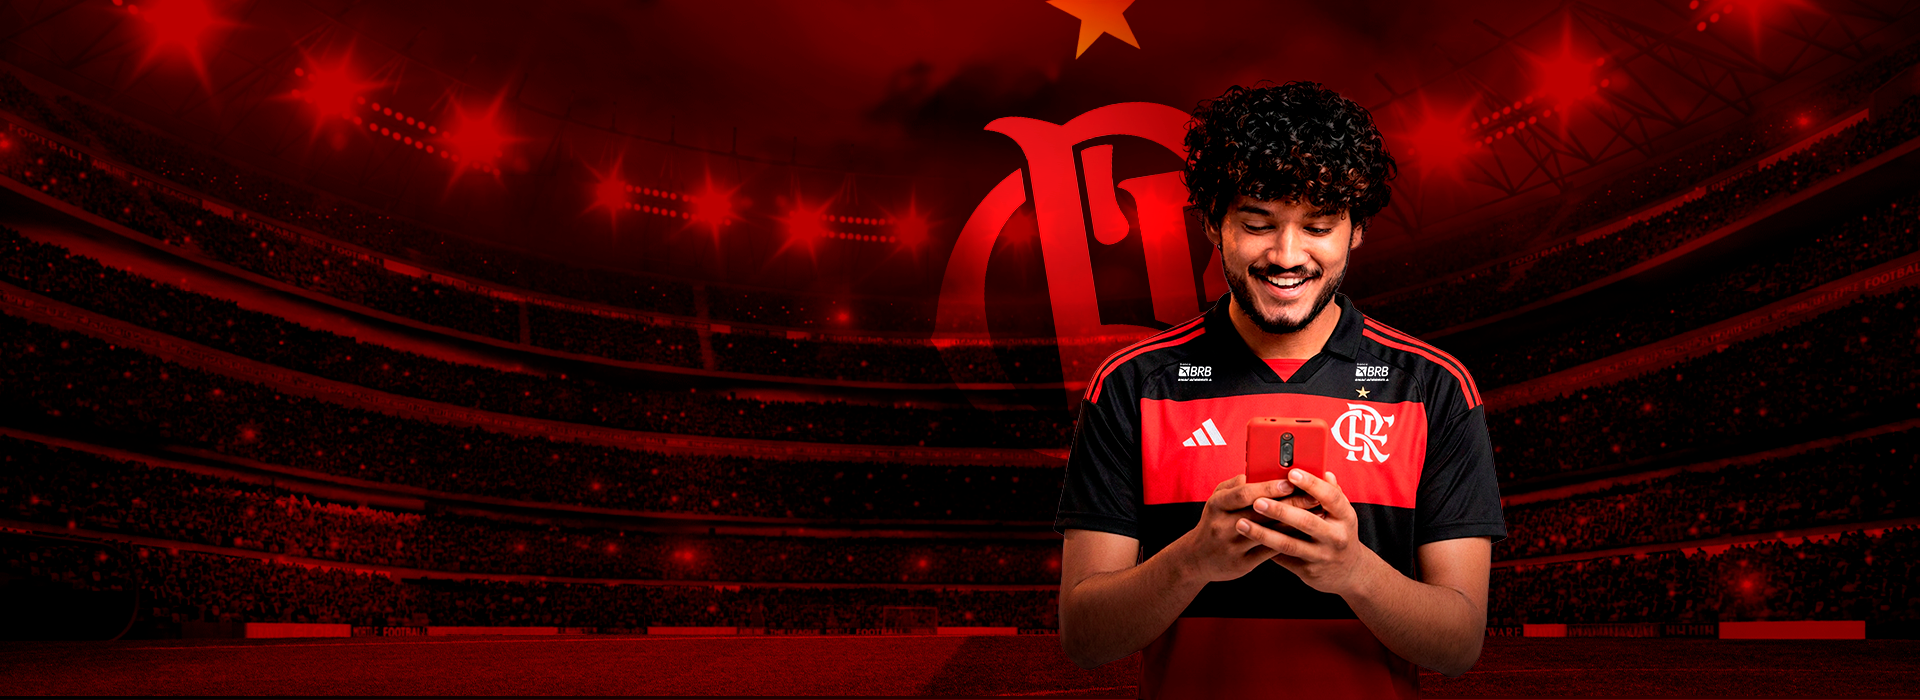
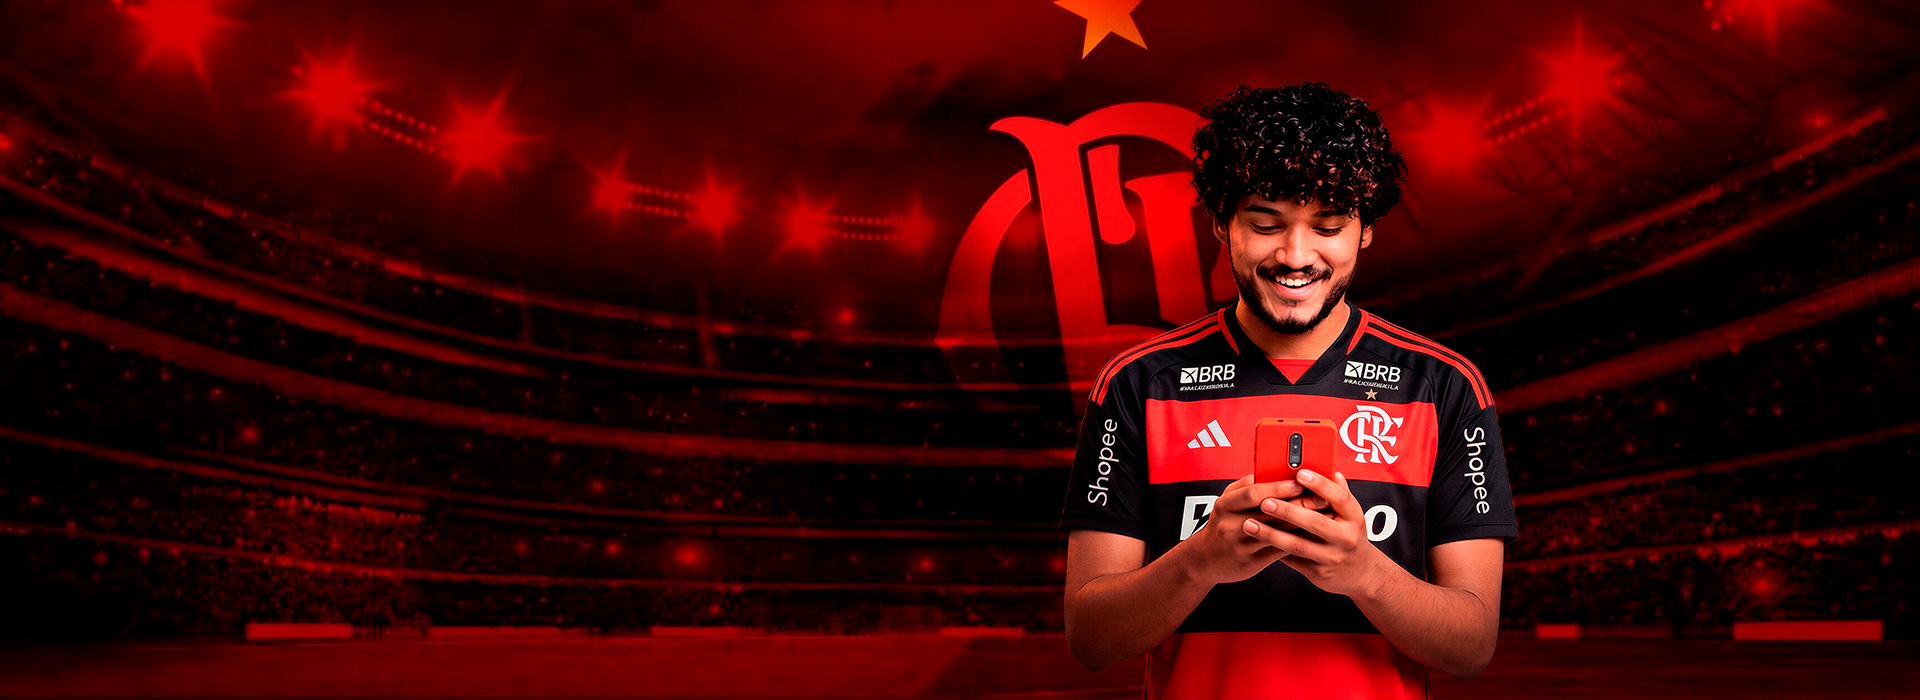
Adiciona botão Simular Benefícios ao menu e corrige inclinação do hero
- Troca a wordmark "FLA PREV" no menu e no hero pela imagem oficial
- Barra do menu fixo fica transparente no topo e preta ao rolar a página
- Remove o skewX(-10deg) permanente da animação de entrada do hero, que
  deixava logo/texto/botões desalinhados em diagonal
- Atualiza fotos de fundo e mulher

diff --git a/index.html b/index.html
@@ -44,11 +44,11 @@
 <body class="antialiased text-white selection:bg-red-600 selection:text-white">
 
 <!-- ============ NAVBAR ============ -->
-<nav class="fixed top-0 w-full z-50 pointer-events-none">
-  <div class="flex justify-between items-start pt-6 px-4 md:px-12">
+<nav id="navbar" class="fixed top-0 w-full z-50 bg-transparent transition-colors duration-300 pointer-events-none">
+  <div class="flex justify-between items-center py-4 px-4 md:px-12">
     <a href="#topo" class="pointer-events-auto flex items-center gap-5">
       <img alt="Logo" class="h-9 md:h-12 w-auto" src="/logo-white.png"/>
-      <span class="uppercase italic text-white text-base md:text-lg" style="font-family: 'Manrope', sans-serif; font-weight: 800;">Fla Prev</span>
+      <img alt="Fla Prev" class="h-4 md:h-5 w-auto" src="/logo-prev-wordmark.png"/>
     </a>
     <div class="hidden md:flex space-x-4 pointer-events-auto">
       <a class="relative group" href="#o-plano">
@@ -103,8 +103,8 @@
   <div class="absolute inset-0 bg-gradient-to-t from-black/80 to-transparent z-[1]"></div>
   <div class="container mx-auto px-6 md:px-4 relative z-10 grid md:grid-cols-2 gap-8 md:gap-12 items-center">
     <div class="flex flex-col items-start space-y-5 md:space-y-6 animate-enter-left ml-[10%] md:ml-[25%]">
-      <h2 class="text-6xl md:text-7xl lg:text-8xl uppercase italic text-white transform md:-translate-x-[5%] md:-rotate-2" style="font-family: 'Manrope', sans-serif; font-weight: 800;">FLA PREV</h2>
-      <p class="font-marker font-semibold text-base md:text-2xl text-gray-200 p-3 md:p-4 transform md:rotate-1 max-w-md border-l-4 border-red-600">
+      <img alt="FLA PREV" class="h-16 md:h-24 lg:h-28 w-auto transform md:-translate-x-[5%]" src="/logo-prev-wordmark.png"/>
+      <p class="font-marker font-semibold text-base md:text-2xl text-gray-200 p-3 md:p-4 max-w-md border-l-4 border-red-600">
         <span class="block whitespace-nowrap">O plano de previdência da Nação Rubro-negra!</span>
         <span class="block whitespace-nowrap">Contribua a partir de <span class="text-red-500 font-extrabold">R$ 150</span> e garanta</span>
         <span class="block whitespace-nowrap">hoje o futuro que você sonha.</span>
@@ -136,7 +136,7 @@
   <div class="absolute top-0 left-0 w-full h-full bg-halftone-white opacity-50 pointer-events-none"></div>
   <div class="container mx-auto px-4 relative z-10">
     <div class="flex flex-col items-center text-center mb-12">
-      <h2 class="font-anton font-extrabold text-4xl md:text-6xl uppercase leading-none transform -rotate-1 mb-[1.15rem] text-center">
+      <h2 class="font-anton font-extrabold text-4xl md:text-6xl uppercase leading-none mb-[1.15rem] text-center">
         <span class="inline-block -translate-y-[10%]">Especialmente para</span><br/><span class="bg-red-600 text-white px-2 py-2 inline-block">a Nação Rubro-Negra</span>
       </h2>
       <div>
@@ -157,7 +157,7 @@
   <div class="absolute bottom-20 right-10 w-96 h-96 bg-red-800 rounded-full mix-blend-multiply filter blur-3xl opacity-20 animate-pulse" style="animation-delay: 1s;"></div>
   <div class="container mx-auto px-4 relative z-10">
     <div class="flex flex-col items-center mb-4">
-      <h2 class="font-anton font-extrabold text-4xl md:text-6xl uppercase leading-none transform -rotate-1 mb-4 text-center">
+      <h2 class="font-anton font-extrabold text-4xl md:text-6xl uppercase leading-none mb-4 text-center">
         <span class="inline-block -translate-y-[10%] text-white">Um investimento</span><br/><span class="bg-red-600 text-white px-2 py-2 inline-block">que vale a pena</span>
       </h2>
     </div>
@@ -167,15 +167,15 @@
 
     <!-- stats -->
     <div class="grid grid-cols-1 md:grid-cols-3 gap-6 max-w-5xl mx-auto mb-16">
-      <div class="bg-black border-2 border-red-600 p-6 text-center transform -skew-x-3 hover:skew-x-0 transition-transform">
+      <div class="bg-black border-2 border-red-600 p-6 text-center">
         <div class="font-anton text-5xl text-red-600">+1.000</div>
         <div class="font-bold uppercase tracking-wide text-sm mt-1">Participantes</div>
       </div>
-      <div class="bg-red-600 border-2 border-black p-6 text-center transform skew-x-3 hover:skew-x-0 transition-transform">
+      <div class="bg-red-600 border-2 border-black p-6 text-center">
         <div class="font-anton text-5xl text-white">+R$ 10 mi</div>
         <div class="font-bold uppercase tracking-wide text-sm mt-1 text-black">Em patrimônio</div>
       </div>
-      <div class="bg-black border-2 border-red-600 p-6 text-center transform -skew-x-3 hover:skew-x-0 transition-transform flex items-center justify-center">
+      <div class="bg-black border-2 border-red-600 p-6 text-center flex items-center justify-center">
         <p class="font-bold uppercase tracking-wide text-base leading-snug">Rentabilidade acima do referencial em <span class="font-anton text-red-600 text-xl">4</span> dos últimos <span class="font-anton text-red-600 text-xl">5</span> anos</p>
       </div>
     </div>
@@ -183,45 +183,45 @@
     <!-- destaque cards -->
     <div class="grid grid-cols-2 lg:grid-cols-4 gap-3 md:gap-6">
       <div class="group">
-        <div class="h-full bg-black p-1 transform transition-transform duration-300 group-hover:-translate-y-2 group-hover:-rotate-1">
+        <div class="h-full bg-black p-1 transform transition-transform duration-300 group-hover:-translate-y-2">
           <div class="h-full bg-white border-2 border-black p-4 md:p-6 relative overflow-hidden text-black">
             <div class="bg-red-600 text-white w-12 h-12 flex items-center justify-center border-2 border-black mb-4 clip-starburst">
               <iconify-icon icon="solar:infinity-linear" width="24"></iconify-icon>
             </div>
-            <h3 class="font-anton font-extrabold text-lg md:text-2xl mb-2 transform -skew-x-6">SEM LIMITE DE IDADE</h3>
+            <h3 class="font-anton font-extrabold text-lg md:text-2xl mb-2">SEM LIMITE DE IDADE</h3>
             <p class="font-medium leading-tight">Adesão liberada para toda a Nação, sem restrição de idade para começar.</p>
           </div>
         </div>
       </div>
       <div class="group">
-        <div class="h-full bg-red-600 p-1 transform transition-transform duration-300 group-hover:-translate-y-2 group-hover:rotate-1">
+        <div class="h-full bg-red-600 p-1 transform transition-transform duration-300 group-hover:-translate-y-2">
           <div class="h-full bg-black border-2 border-white p-4 md:p-6 relative overflow-hidden text-white">
             <div class="bg-white text-black w-12 h-12 flex items-center justify-center border-2 border-red-600 mb-4 clip-starburst">
               <iconify-icon icon="solar:wallet-money-linear" width="24"></iconify-icon>
             </div>
-            <h3 class="font-anton font-extrabold text-lg md:text-2xl mb-2 transform -skew-x-6 text-red-500">A PARTIR DE R$ 150</h3>
+            <h3 class="font-anton font-extrabold text-lg md:text-2xl mb-2 text-red-500">A PARTIR DE R$ 150</h3>
             <p class="font-medium leading-tight text-gray-300">Contribuição mensal acessível para você começar a construir sua reserva.</p>
           </div>
         </div>
       </div>
       <div class="group">
-        <div class="h-full bg-black p-1 transform transition-transform duration-300 group-hover:-translate-y-2 group-hover:-rotate-1">
+        <div class="h-full bg-black p-1 transform transition-transform duration-300 group-hover:-translate-y-2">
           <div class="h-full bg-white border-2 border-black p-4 md:p-6 relative overflow-hidden text-black">
             <div class="bg-red-600 text-white w-12 h-12 flex items-center justify-center border-2 border-black mb-4 clip-starburst">
               <iconify-icon icon="solar:document-text-linear" width="24"></iconify-icon>
             </div>
-            <h3 class="font-anton font-extrabold text-lg md:text-2xl mb-2 transform -skew-x-6">DEDUÇÃO NO IR</h3>
+            <h3 class="font-anton font-extrabold text-lg md:text-2xl mb-2">DEDUÇÃO NO IR</h3>
             <p class="font-medium leading-tight">Dedutibilidade fiscal no Imposto de Renda, de até 12% da renda tributável.</p>
           </div>
         </div>
       </div>
       <div class="group">
-        <div class="h-full bg-red-600 p-1 transform transition-transform duration-300 group-hover:-translate-y-2 group-hover:rotate-1">
+        <div class="h-full bg-red-600 p-1 transform transition-transform duration-300 group-hover:-translate-y-2">
           <div class="h-full bg-black border-2 border-white p-4 md:p-6 relative overflow-hidden text-white">
             <div class="bg-white text-black w-12 h-12 flex items-center justify-center border-2 border-red-600 mb-4 clip-starburst">
               <iconify-icon icon="solar:card-linear" width="24"></iconify-icon>
             </div>
-            <h3 class="font-anton font-extrabold text-lg md:text-2xl mb-2 transform -skew-x-6 text-red-500">PAGUE COMO QUISER</h3>
+            <h3 class="font-anton font-extrabold text-lg md:text-2xl mb-2 text-red-500">PAGUE COMO QUISER</h3>
             <p class="font-medium leading-tight text-gray-300">Conta Nação BRB Fla, boleto, PIX, débito em conta ou cartão de crédito. Você escolhe.</p>
           </div>
         </div>
@@ -236,7 +236,7 @@
   <div class="container mx-auto px-4 relative z-10">
     <div class="grid md:grid-cols-2 gap-10 items-center">
       <div class="mx-6 md:ml-[10%] md:mr-0">
-        <h2 class="font-anton font-extrabold text-4xl md:text-6xl uppercase leading-none transform -rotate-1 mb-6">
+        <h2 class="font-anton font-extrabold text-4xl md:text-6xl uppercase leading-none mb-6">
           <span class="inline-block -translate-y-[10%]">Vantagens</span><br/><span class="bg-red-600 text-white px-2 py-2 inline-block">tributárias</span>
         </h2>
         <p class="font-medium text-lg leading-snug max-w-sm">
@@ -279,7 +279,7 @@
       </div>
       <div class="relative flex flex-col gap-10 pb-24">
         <img alt="Mulher sorrindo" class="md:hidden absolute -top-16 right-4 z-0 w-48 h-auto" src="/mulher.png"/>
-        <h2 class="font-anton font-extrabold text-4xl md:text-6xl uppercase leading-none transform -rotate-1 text-left pr-32 md:pr-0 pl-8 md:pl-0">
+        <h2 class="font-anton font-extrabold text-4xl md:text-6xl uppercase leading-none text-left pr-32 md:pr-0 pl-8 md:pl-0">
           <span class="inline-block -translate-y-[10%] text-white whitespace-nowrap">Como funciona</span><br/><span class="bg-red-600 text-white px-2 py-2 inline-block">o benefício</span>
         </h2>
         <div class="bg-black border-2 border-red-600 p-8 transform hover:-translate-y-2 transition-transform clip-jagged md:w-[130%]">
@@ -305,7 +305,7 @@
 <section id="documentos" class="relative bg-white text-black py-20 overflow-hidden">
   <div class="absolute top-0 left-0 w-full h-full bg-halftone-white opacity-40 pointer-events-none"></div>
   <div class="container mx-auto px-4 relative z-10 text-center">
-    <h2 class="font-anton font-extrabold text-4xl md:text-6xl uppercase leading-none transform -rotate-1 mb-3 text-center">
+    <h2 class="font-anton font-extrabold text-4xl md:text-6xl uppercase leading-none mb-3 text-center">
       <span class="inline-block -translate-y-[10%]">Leia o regulamento</span><br/><span class="bg-red-600 text-white px-2 py-2 inline-block">e a cartilha</span>
     </h2>
     <p class="max-w-2xl mx-auto font-medium text-lg mb-10">Quer conhecer todos os detalhes do FLA Prev? Consulte o regulamento completo e a cartilha explicativa, com uma linguagem simples sobre como funciona a sua previdência.</p>
@@ -334,7 +334,7 @@
 <section id="simulador" class="relative bg-neutral-900 text-white py-24 md:py-28 border-b-8 border-red-600 overflow-hidden">
   <div class="container mx-auto px-4 relative z-10">
     <div class="flex flex-col items-center text-center">
-      <h2 class="font-anton font-extrabold text-4xl md:text-6xl uppercase leading-none transform -rotate-1 mb-4 text-center">
+      <h2 class="font-anton font-extrabold text-4xl md:text-6xl uppercase leading-none mb-4 text-center">
         <span class="inline-block -translate-y-[10%] text-white">Planeje agora o benefício</span><br/><span class="bg-red-600 text-white px-2 py-2 inline-block">que você quer no futuro</span>
       </h2>
       <p class="max-w-3xl font-medium text-lg md:text-xl leading-snug px-4 md:px-0 text-gray-300">
@@ -358,7 +358,7 @@
   <div class="absolute bottom-10 right-10 w-72 h-72 bg-gray-200 rounded-full mix-blend-multiply filter blur-3xl opacity-40 animate-pulse" style="animation-delay: 1s;"></div>
   <div class="container mx-auto px-4 relative z-10">
     <div class="flex flex-col items-center text-center mb-12">
-      <h2 class="font-anton font-extrabold text-6xl md:text-8xl uppercase leading-none transform -rotate-1 mb-6">
+      <h2 class="font-anton font-extrabold text-6xl md:text-8xl uppercase leading-none mb-6">
         <span class="bg-red-600 text-white px-2 py-2 inline-block">FAQ</span>
       </h2>
       <p class="font-medium text-lg leading-snug text-gray-600 whitespace-nowrap">
@@ -522,7 +522,7 @@
           <iconify-icon class="faq-icon text-red-600 flex-shrink-0 transition-transform duration-300" icon="solar:alt-arrow-down-linear" width="28"></iconify-icon>
         </summary>
         <div class="px-[60px] pb-5 md:pb-7">
-          <p class="font-medium text-gray-700 leading-relaxed">Sim, o cancelamento é realizado mediante preenchimento de formulário disponibilizado pelos canais de atendimento da Previdência BRB.</p>
+          <p class="font-medium text-gray-700 leading-relaxed">Sim, o cancelamento é realizado mediante preenchimento de formulário disponibilizado pelos canais de atendimento do FLA Prev.</p>
         </div>
       </details>
 
@@ -532,7 +532,7 @@
           <iconify-icon class="faq-icon text-red-600 flex-shrink-0 transition-transform duration-300" icon="solar:alt-arrow-down-linear" width="28"></iconify-icon>
         </summary>
         <div class="px-[60px] pb-5 md:pb-7">
-          <p class="font-medium text-gray-700 leading-relaxed">Sim, para realizar contribuições adicionais entre em contato pelos canais de atendimento da Previdência BRB.</p>
+          <p class="font-medium text-gray-700 leading-relaxed">Sim, para realizar contribuições adicionais entre em contato pelos canais de atendimento do FLA Prev.</p>
         </div>
       </details>
 
@@ -562,7 +562,7 @@
           <iconify-icon class="faq-icon text-red-600 flex-shrink-0 transition-transform duration-300" icon="solar:alt-arrow-down-linear" width="28"></iconify-icon>
         </summary>
         <div class="px-[60px] pb-5 md:pb-7">
-          <p class="font-medium text-gray-700 leading-relaxed">As informações completas sobre direitos, obrigações, contribuições, benefícios e demais condições do plano estão disponíveis nos documentos oficiais do BrasíliaPrev e nos canais de atendimento da Previdência BRB.</p>
+          <p class="font-medium text-gray-700 leading-relaxed">As informações completas sobre direitos, obrigações, contribuições, benefícios e demais condições do plano estão disponíveis nos documentos oficiais do BrasíliaPrev e nos canais de atendimento do FLA Prev.</p>
         </div>
       </details>
 
@@ -714,10 +714,10 @@
   <div class="absolute top-0 right-0 w-2/3 h-full bg-halftone transform skew-x-12 translate-x-1/3 opacity-90 z-0"></div>
 
   <div class="container mx-auto px-4 relative z-10 text-center flex flex-col items-center">
-    <h2 class="font-anton font-extrabold text-[46px] md:text-8xl uppercase leading-[0.9] text-white text-shadow-hard transform -rotate-2 max-w-4xl" style="-webkit-text-stroke: 2px black; paint-order: stroke fill;">
+    <h2 class="font-anton font-extrabold text-[46px] md:text-8xl uppercase leading-[0.9] text-white text-shadow-hard max-w-4xl" style="-webkit-text-stroke: 2px black; paint-order: stroke fill;">
       O futuro que <span class="text-red-600" style="-webkit-text-stroke: 2px black; paint-order: stroke fill;">você<br class="md:hidden"/> sonha</span> está em<br class="md:hidden"/> <span style="-webkit-text-stroke: 2px black; paint-order: stroke fill;">nossos Planos</span>
     </h2>
-    <p class="font-marker text-lg text-black mt-8 transform rotate-1 bg-white px-4 py-2 border-l-4 border-red-600">
+    <p class="font-marker text-lg text-black mt-8 bg-white px-4 py-2 border-l-4 border-red-600">
       Faça parte da Nação FLA Prev e comece a contribuir hoje mesmo.
     </p>
     <div class="mt-10 transform hover:scale-105 transition-transform duration-200">
@@ -737,38 +737,6 @@
 <!-- ============ FOOTER ============ -->
 <footer class="bg-black text-white relative pt-10 pb-6 border-t-8 border-red-600">
   <div class="container mx-auto px-4 relative z-10">
-    <nav class="flex flex-wrap justify-center md:justify-start gap-2 md:gap-4 mb-6">
-      <a class="relative group" href="#topo">
-        <div class="bg-black text-white px-3 py-2 md:px-7 md:py-3 transform -skew-x-12 border-2 border-white transition-all duration-300 group-hover:bg-red-600 group-hover:border-black group-hover:-translate-y-1">
-          <span class="font-bold tracking-tight text-xs md:text-base transform skew-x-12 inline-block whitespace-nowrap">INÍCIO</span>
-        </div>
-      </a>
-      <a class="relative group" href="#o-plano">
-        <div class="bg-black text-white px-3 py-2 md:px-7 md:py-3 transform -skew-x-12 border-2 border-white transition-all duration-300 group-hover:bg-red-600 group-hover:border-black group-hover:-translate-y-1">
-          <span class="font-bold tracking-tight text-xs md:text-base transform skew-x-12 inline-block whitespace-nowrap">O PLANO</span>
-        </div>
-      </a>
-      <a class="relative group" href="#vantagens">
-        <div class="bg-black text-white px-3 py-2 md:px-7 md:py-3 transform -skew-x-12 border-2 border-white transition-all duration-300 group-hover:bg-red-600 group-hover:border-black group-hover:-translate-y-1">
-          <span class="font-bold tracking-tight text-xs md:text-base transform skew-x-12 inline-block whitespace-nowrap">VANTAGENS</span>
-        </div>
-      </a>
-      <a class="relative group" href="#documentos">
-        <div class="bg-black text-white px-3 py-2 md:px-7 md:py-3 transform -skew-x-12 border-2 border-white transition-all duration-300 group-hover:bg-red-600 group-hover:border-black group-hover:-translate-y-1">
-          <span class="font-bold tracking-tight text-xs md:text-base transform skew-x-12 inline-block whitespace-nowrap">DOCUMENTOS</span>
-        </div>
-      </a>
-      <a class="relative group" href="#faq">
-        <div class="bg-black text-white px-3 py-2 md:px-7 md:py-3 transform -skew-x-12 border-2 border-white transition-all duration-300 group-hover:bg-red-600 group-hover:border-black group-hover:-translate-y-1">
-          <span class="font-bold tracking-tight text-xs md:text-base transform skew-x-12 inline-block whitespace-nowrap">FAQ</span>
-        </div>
-      </a>
-      <div class="relative group">
-        <div class="bg-red-600 text-white px-3 py-2 md:px-7 md:py-3 transform -skew-x-12 border-2 border-black">
-          <span class="font-bold tracking-tight text-xs md:text-base transform skew-x-12 inline-block whitespace-nowrap">QUERO ADERIR</span>
-        </div>
-      </div>
-    </nav>
     <div class="text-center md:text-left font-mono text-xs text-gray-500">
       <p class="flex items-center gap-3">
         <img src="/marca1-horizontal-branca.png" alt="Previdência BRB" style="height:20px; width:auto; opacity:0.85;"/>
@@ -810,6 +778,23 @@
   document.addEventListener('click', function (e) {
     if (!menu.contains(e.target) && !btn.contains(e.target)) closeMenu();
   });
+})();
+
+// fundo preto no menu fixo só depois de rolar a página, pra não cobrir o hero no topo
+(function () {
+  var navbar = document.getElementById('navbar');
+  if (!navbar) return;
+  function updateNavbar() {
+    if (window.scrollY > 40) {
+      navbar.classList.remove('bg-transparent');
+      navbar.classList.add('bg-black');
+    } else {
+      navbar.classList.remove('bg-black');
+      navbar.classList.add('bg-transparent');
+    }
+  }
+  updateNavbar();
+  window.addEventListener('scroll', updateNavbar, { passive: true });
 })();
 
 // smooth scroll customizado para os links do menu (mais suave que o nativo)

diff --git a/assets/css/components.css b/assets/css/components.css
@@ -57,12 +57,12 @@ body {
 }
 /* Animations */
 @keyframes slideInLeft {
-  from { transform: translateX(-100%) skewX(-10deg); opacity: 0; }
-  to { transform: translateX(0) skewX(-10deg); opacity: 1; }
+  from { transform: translateX(-100%); opacity: 0; }
+  to { transform: translateX(0); opacity: 1; }
 }
 @keyframes slideInRight {
-  from { transform: translateX(100%) skewX(-10deg); opacity: 0; }
-  to { transform: translateX(0) skewX(-10deg); opacity: 1; }
+  from { transform: translateX(100%); opacity: 0; }
+  to { transform: translateX(0); opacity: 1; }
 }
 @keyframes pulse-p5 {
   0% { transform: scale(1) rotate(-3deg); }

diff --git a/public/assets/css/components.css b/public/assets/css/components.css
@@ -57,12 +57,12 @@ body {
 }
 /* Animations */
 @keyframes slideInLeft {
-  from { transform: translateX(-100%) skewX(-10deg); opacity: 0; }
-  to { transform: translateX(0) skewX(-10deg); opacity: 1; }
+  from { transform: translateX(-100%); opacity: 0; }
+  to { transform: translateX(0); opacity: 1; }
 }
 @keyframes slideInRight {
-  from { transform: translateX(100%) skewX(-10deg); opacity: 0; }
-  to { transform: translateX(0) skewX(-10deg); opacity: 1; }
+  from { transform: translateX(100%); opacity: 0; }
+  to { transform: translateX(0); opacity: 1; }
 }
 @keyframes pulse-p5 {
   0% { transform: scale(1) rotate(-3deg); }
